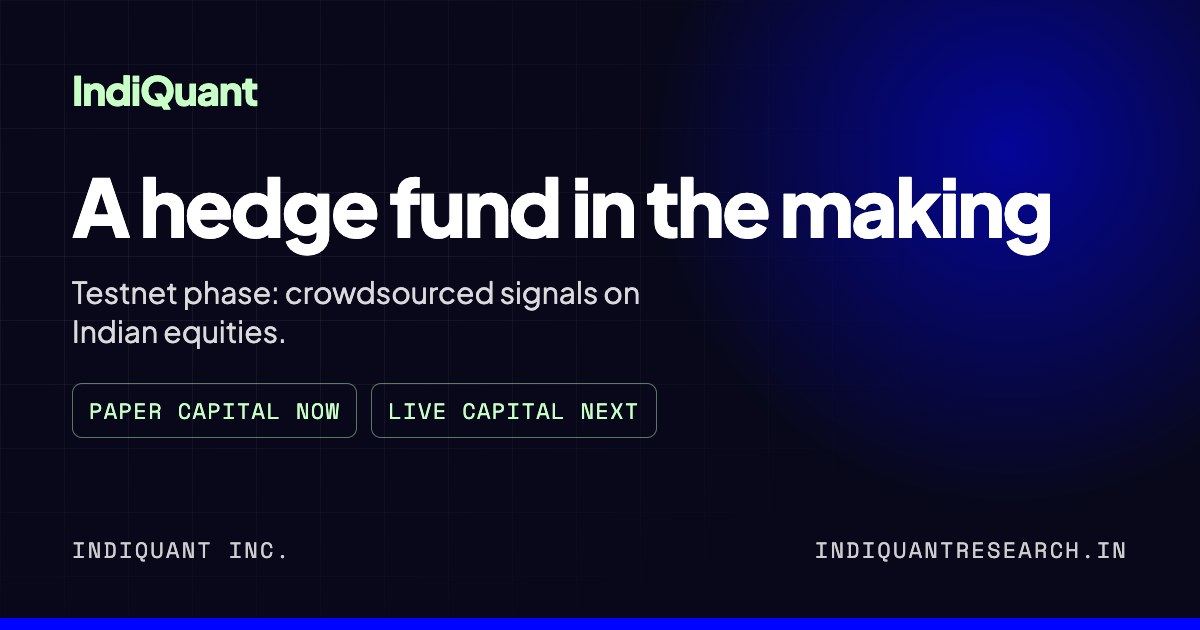
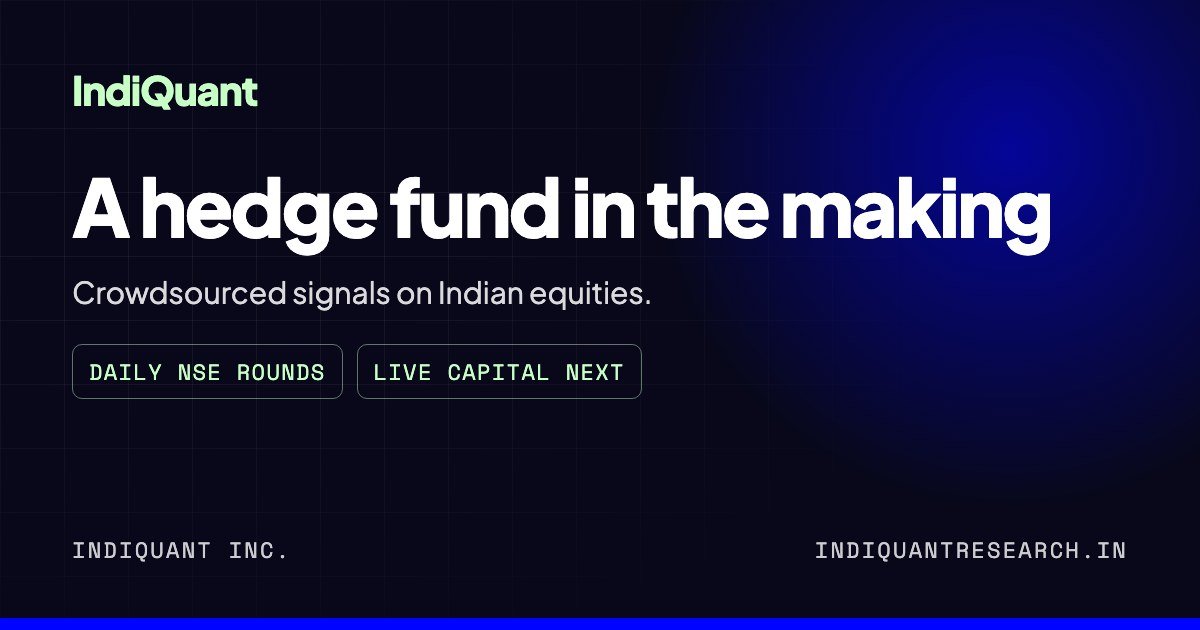
Regenerate social card without the testnet wording
The card now reads "Daily NSE rounds" and "Live capital next", and
OG_IMAGE_URL moves to ?v=4 so link previews fetch the new image.

Changed region(s): [[0.0617, 0.5127, 0.555, 0.6635], [0.0617, 0.4524, 0.555, 0.4825]]

diff --git a/scripts/og-card.html b/scripts/og-card.html
@@ -19,6 +19,6 @@ h1{margin-top:52px;font-weight:800;font-size:80px;line-height:.98;letter-spacing
 </style></head><body><div class="grid"></div><div class="glow"></div>
 <div class="wrap"><div class="mark">IndiQuant</div>
 <h1>A hedge fund in the making</h1>
-<p class="sub">Testnet phase: crowdsourced signals on Indian equities.</p>
-<div class="facts"><span>Paper capital now</span><span>Live capital next</span></div>
+<p class="sub">Crowdsourced signals on Indian equities.</p>
+<div class="facts"><span>Daily NSE rounds</span><span>Live capital next</span></div>
 <div class="foot"><span>INDIQUANT INC.</span><span>indiquantresearch.in</span></div></div><div class="bar"></div></body></html>

diff --git a/src/lib/seo.ts b/src/lib/seo.ts
@@ -14,7 +14,7 @@ export const SITE_URL = "https://indiquantresearch.in";
 export const SITE_NAME = "IndiQuant";
 
 /** Bump the query when the card changes, so preview caches refetch it. */
-export const OG_IMAGE_URL = `${SITE_URL}/og-image.jpg?v=3`;
+export const OG_IMAGE_URL = `${SITE_URL}/og-image.jpg?v=4`;
 export const OG_IMAGE_ALT =
   "IndiQuant, a hedge fund in the making: crowdsourced signals on Indian equities.";
 
